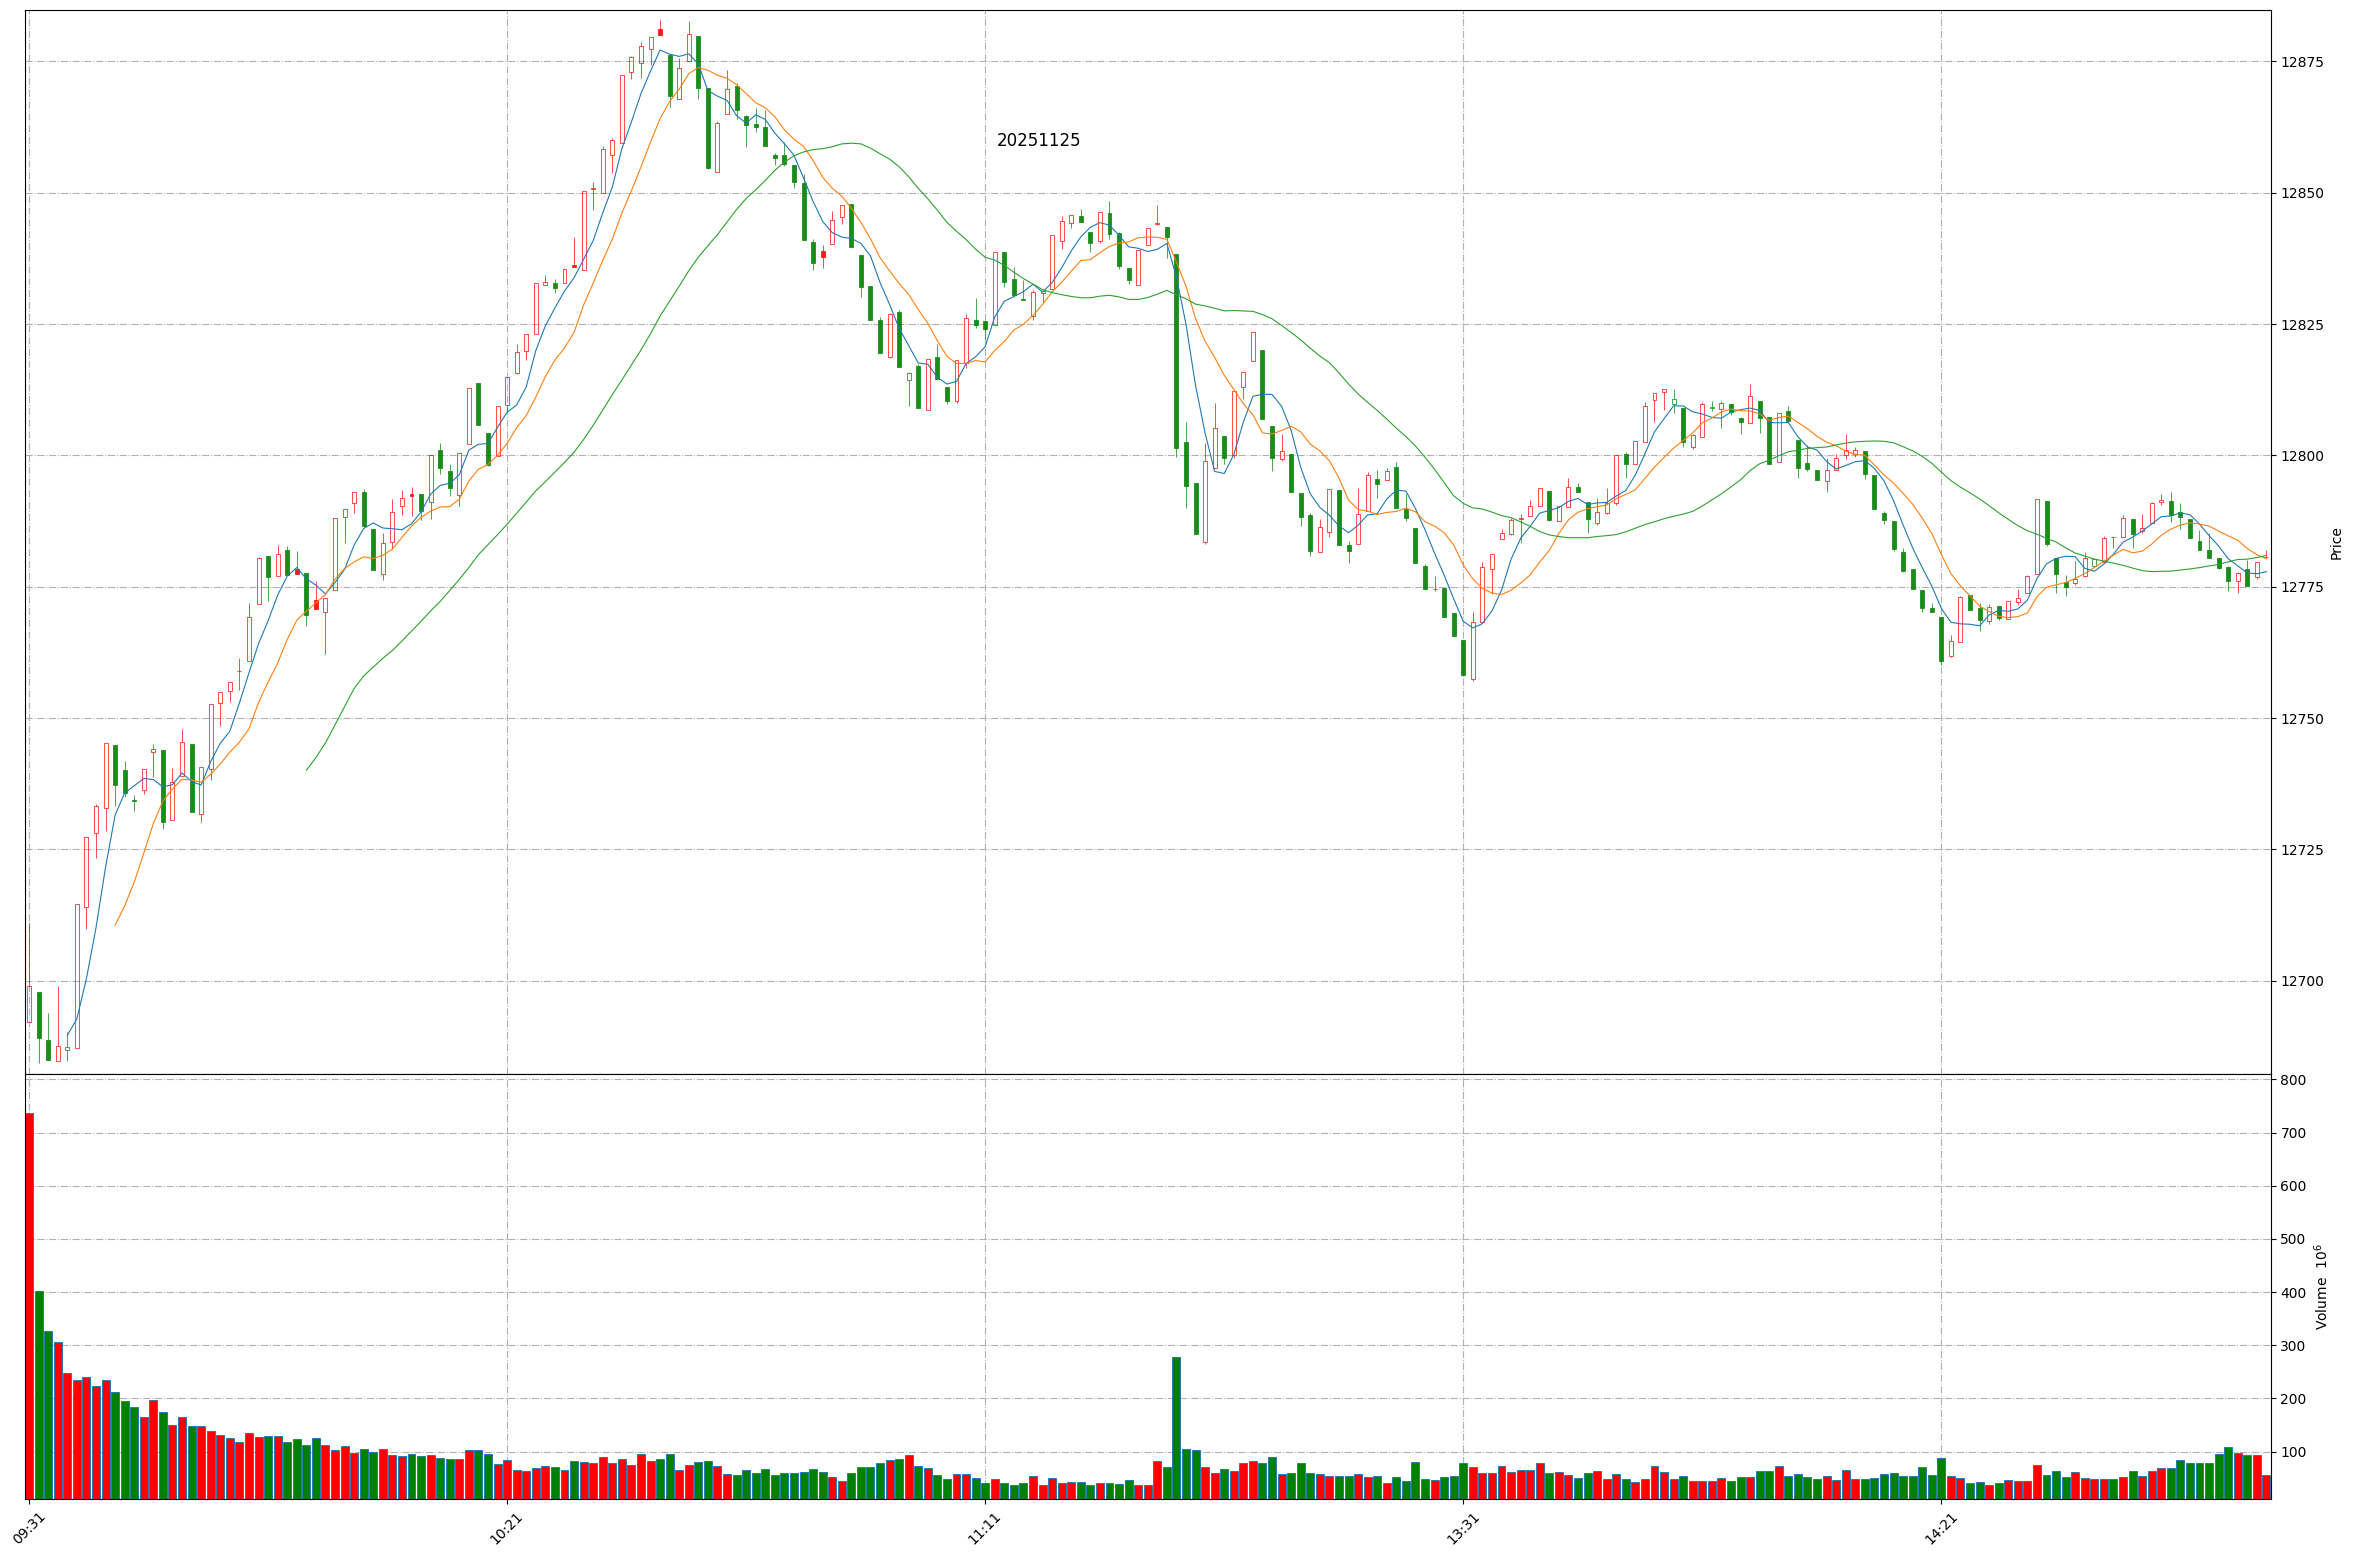
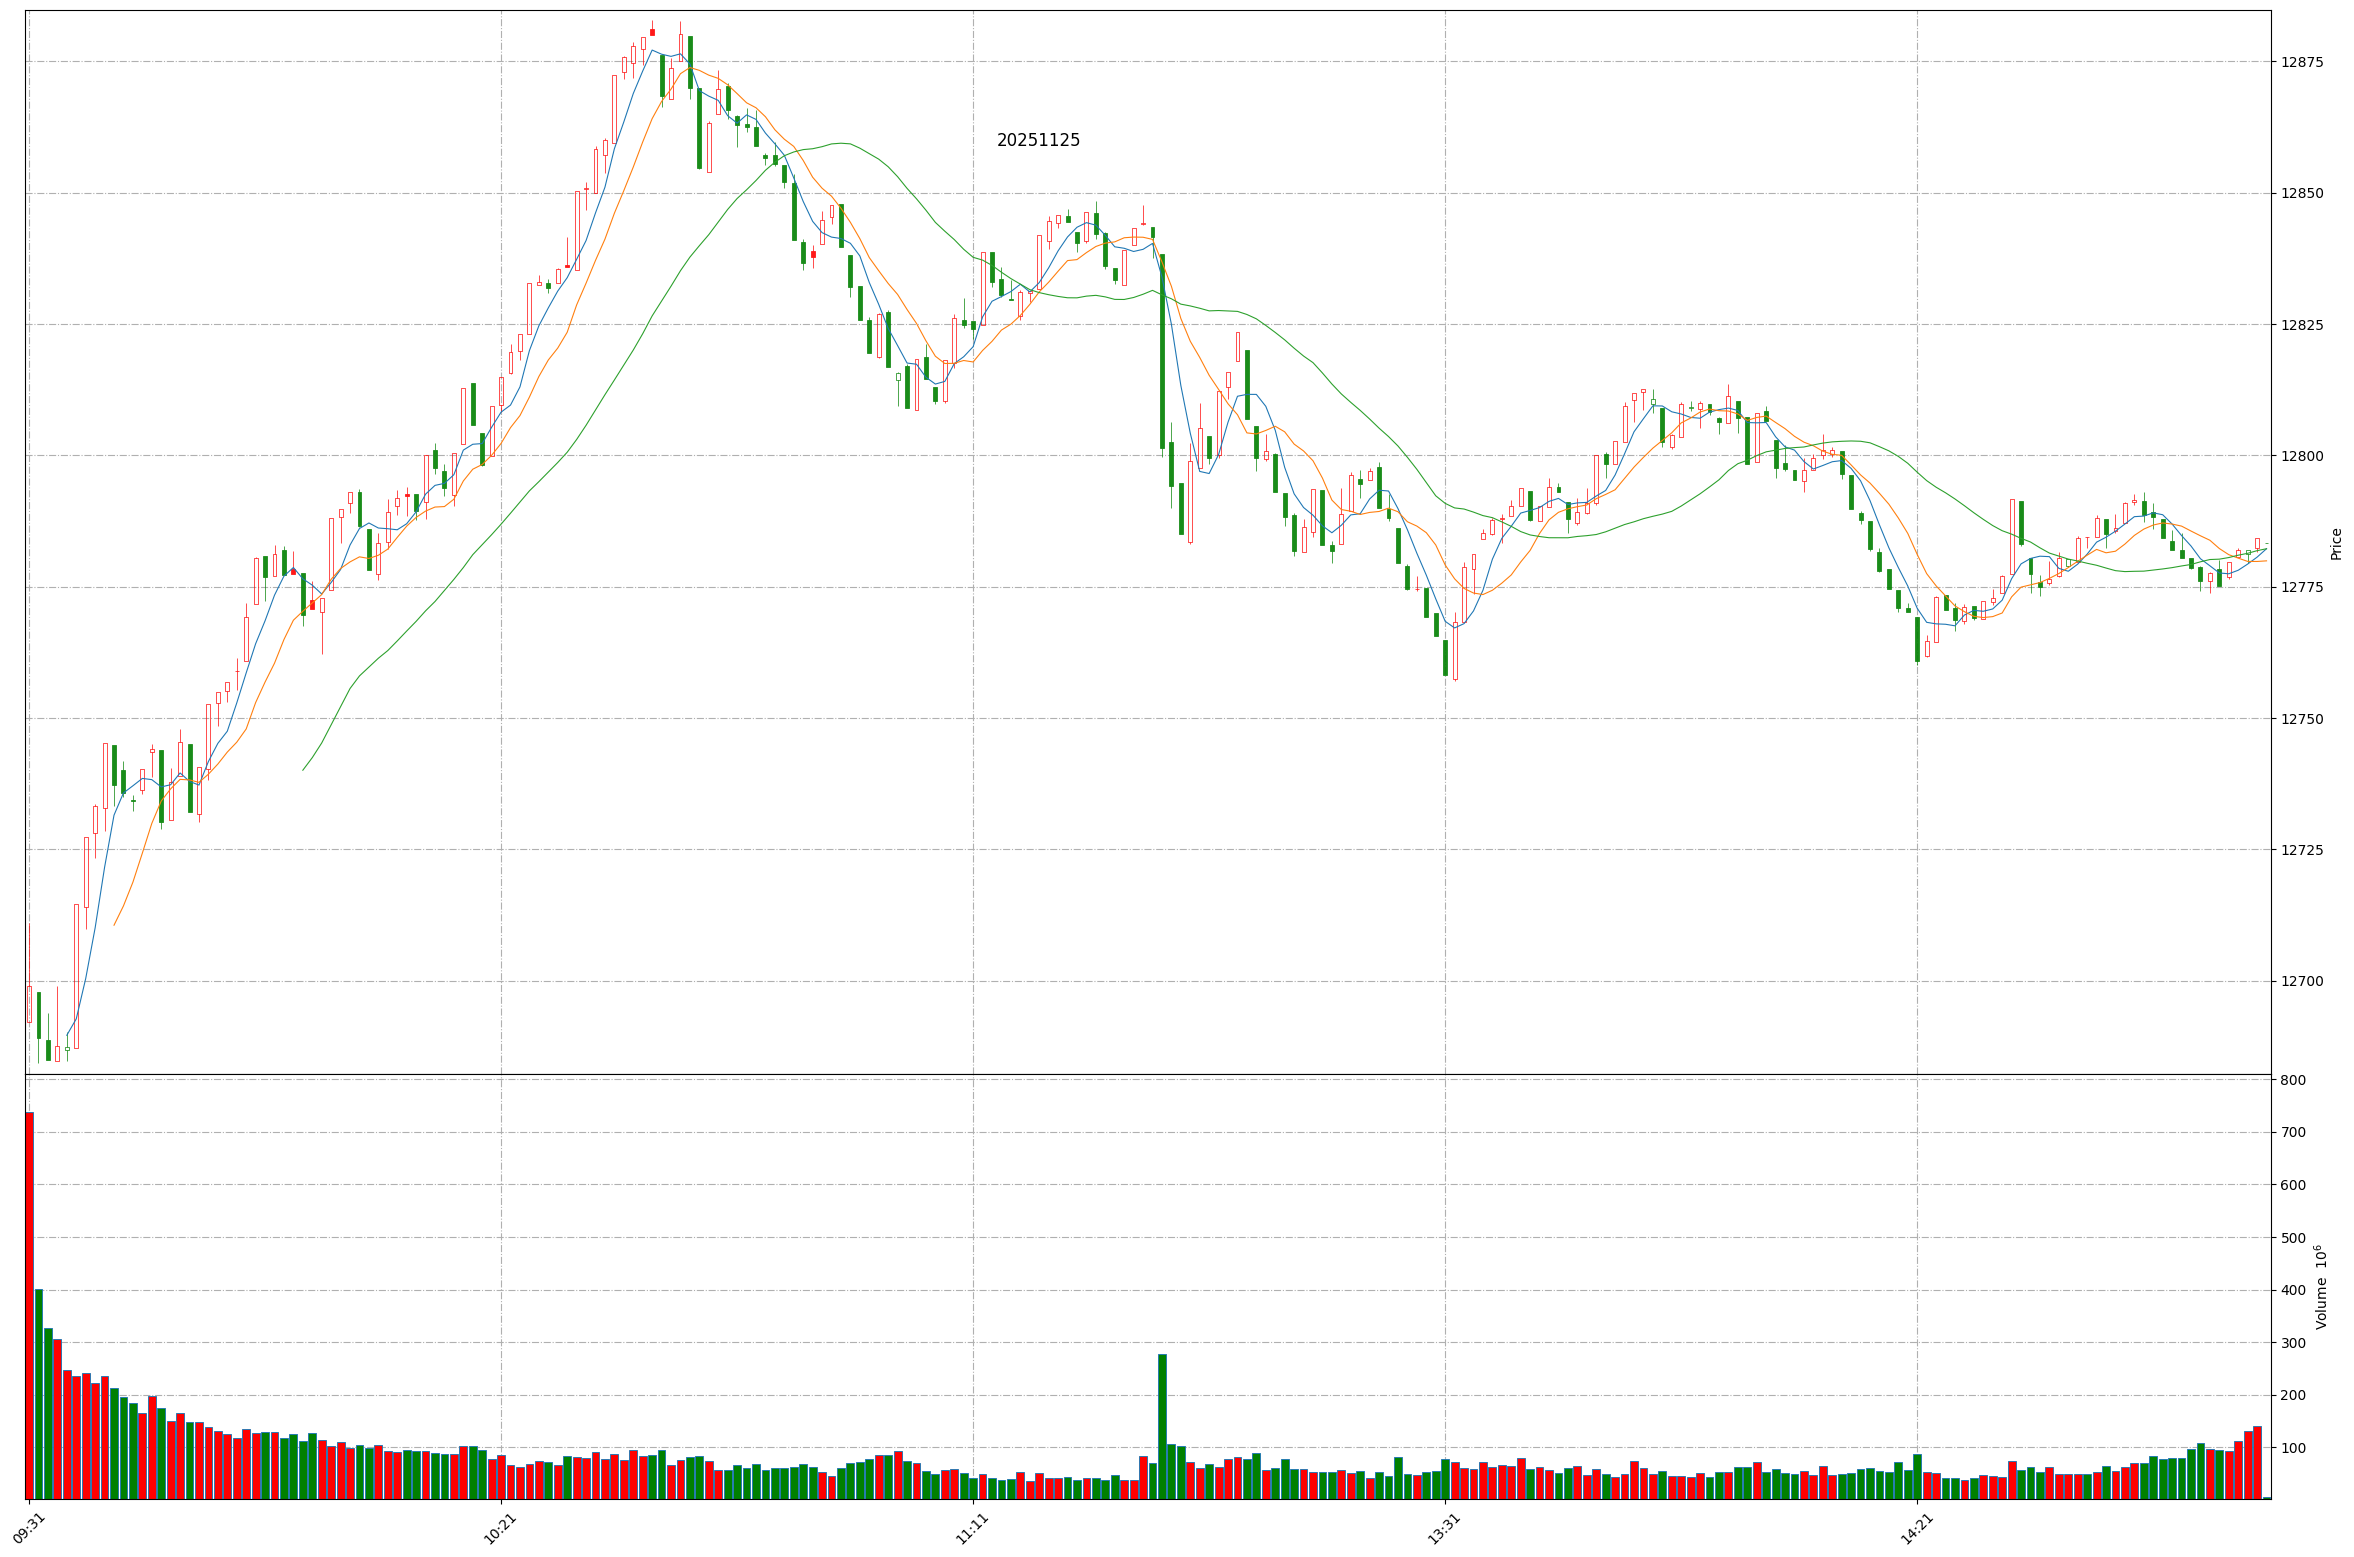
Github action update at 2025-11-25 14:57:33.

diff --git a/README.md b/README.md
@@ -1,11 +1,11 @@
 
 # Daily-A-share-market-quotes 每日 A 股指数（5min 更新）- 20251125
 
-### 上证指数 20251125 14:54
+### 上证指数 20251125 14:57
 ![](./fig/2025/11/20251125-sh000001.png)
 
-### 深证成指 20251125 14:54
+### 深证成指 20251125 14:57
 ![](./fig/2025/11/20251125-sz399001.png)
 
-### 北证50 20251125 14:54
+### 北证50 20251125 14:57
 ![](./fig/2025/11/20251125-bj899050.png)
